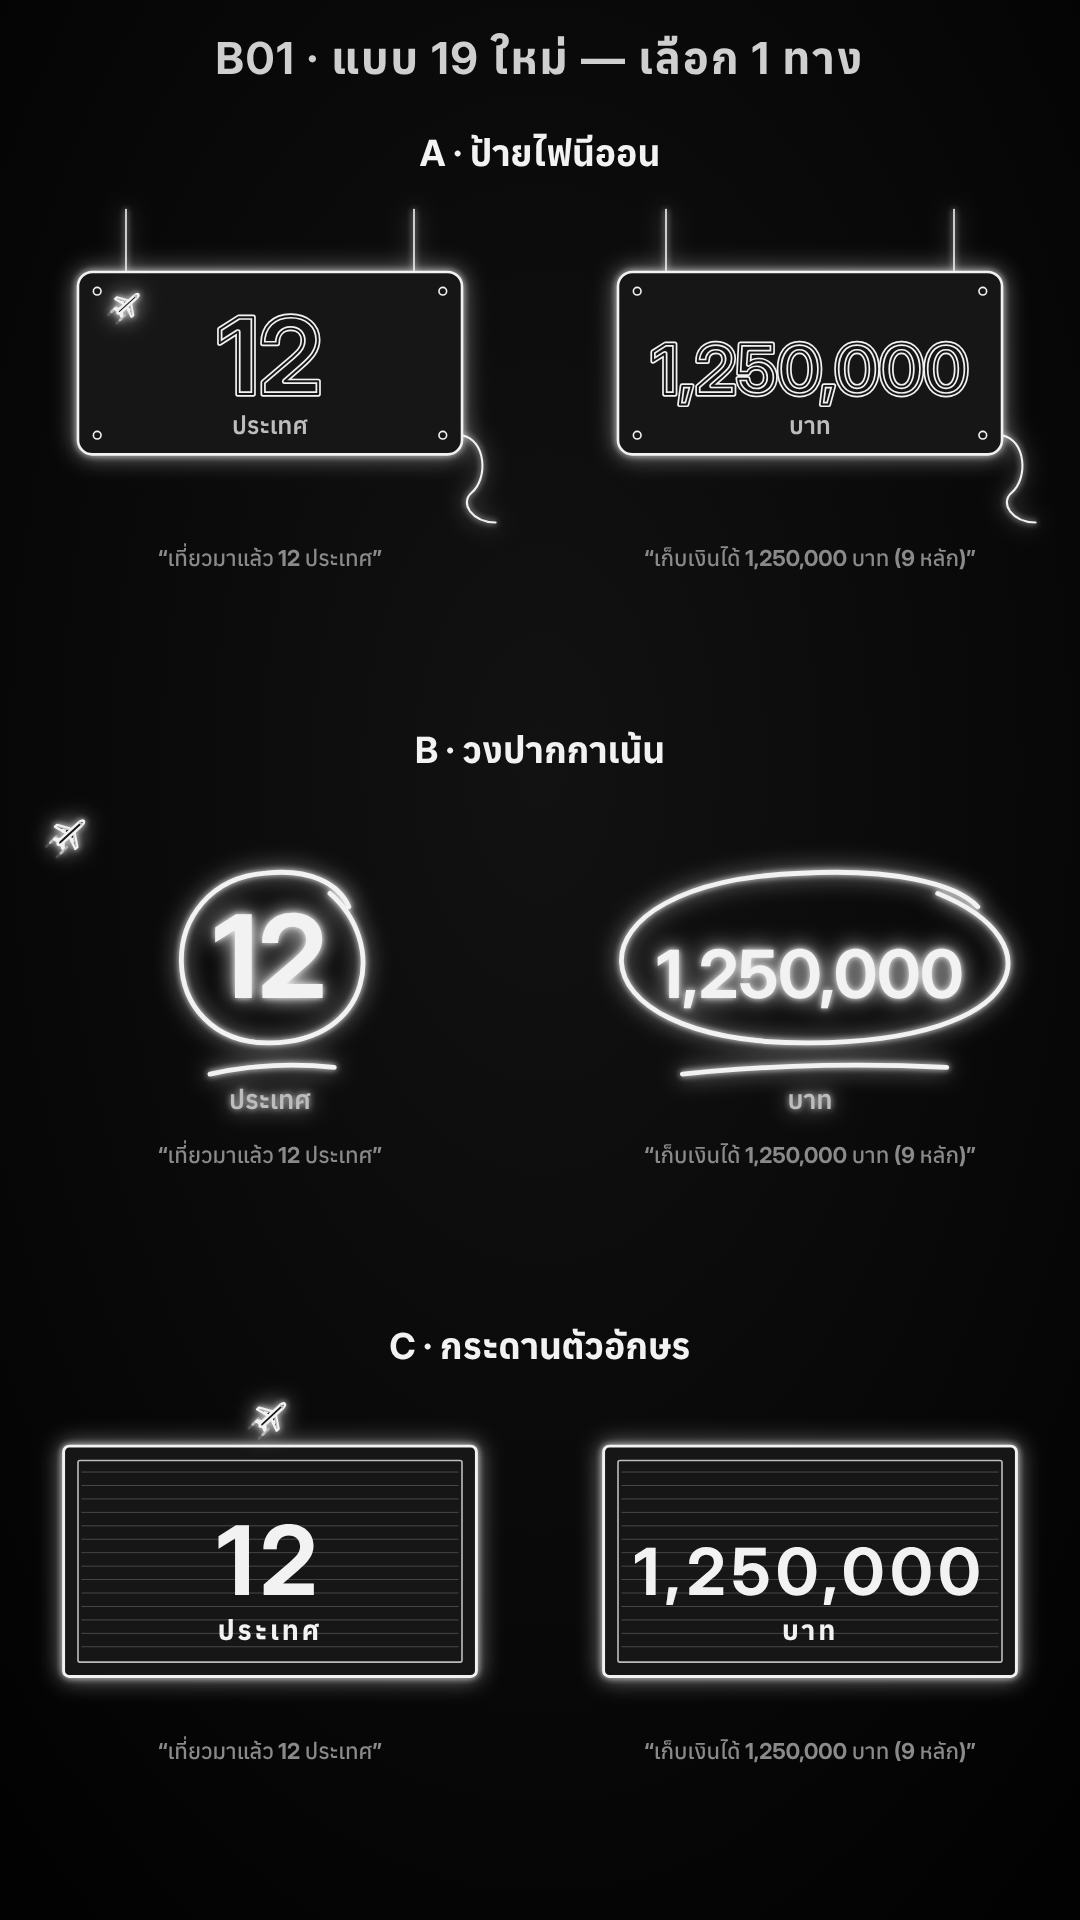
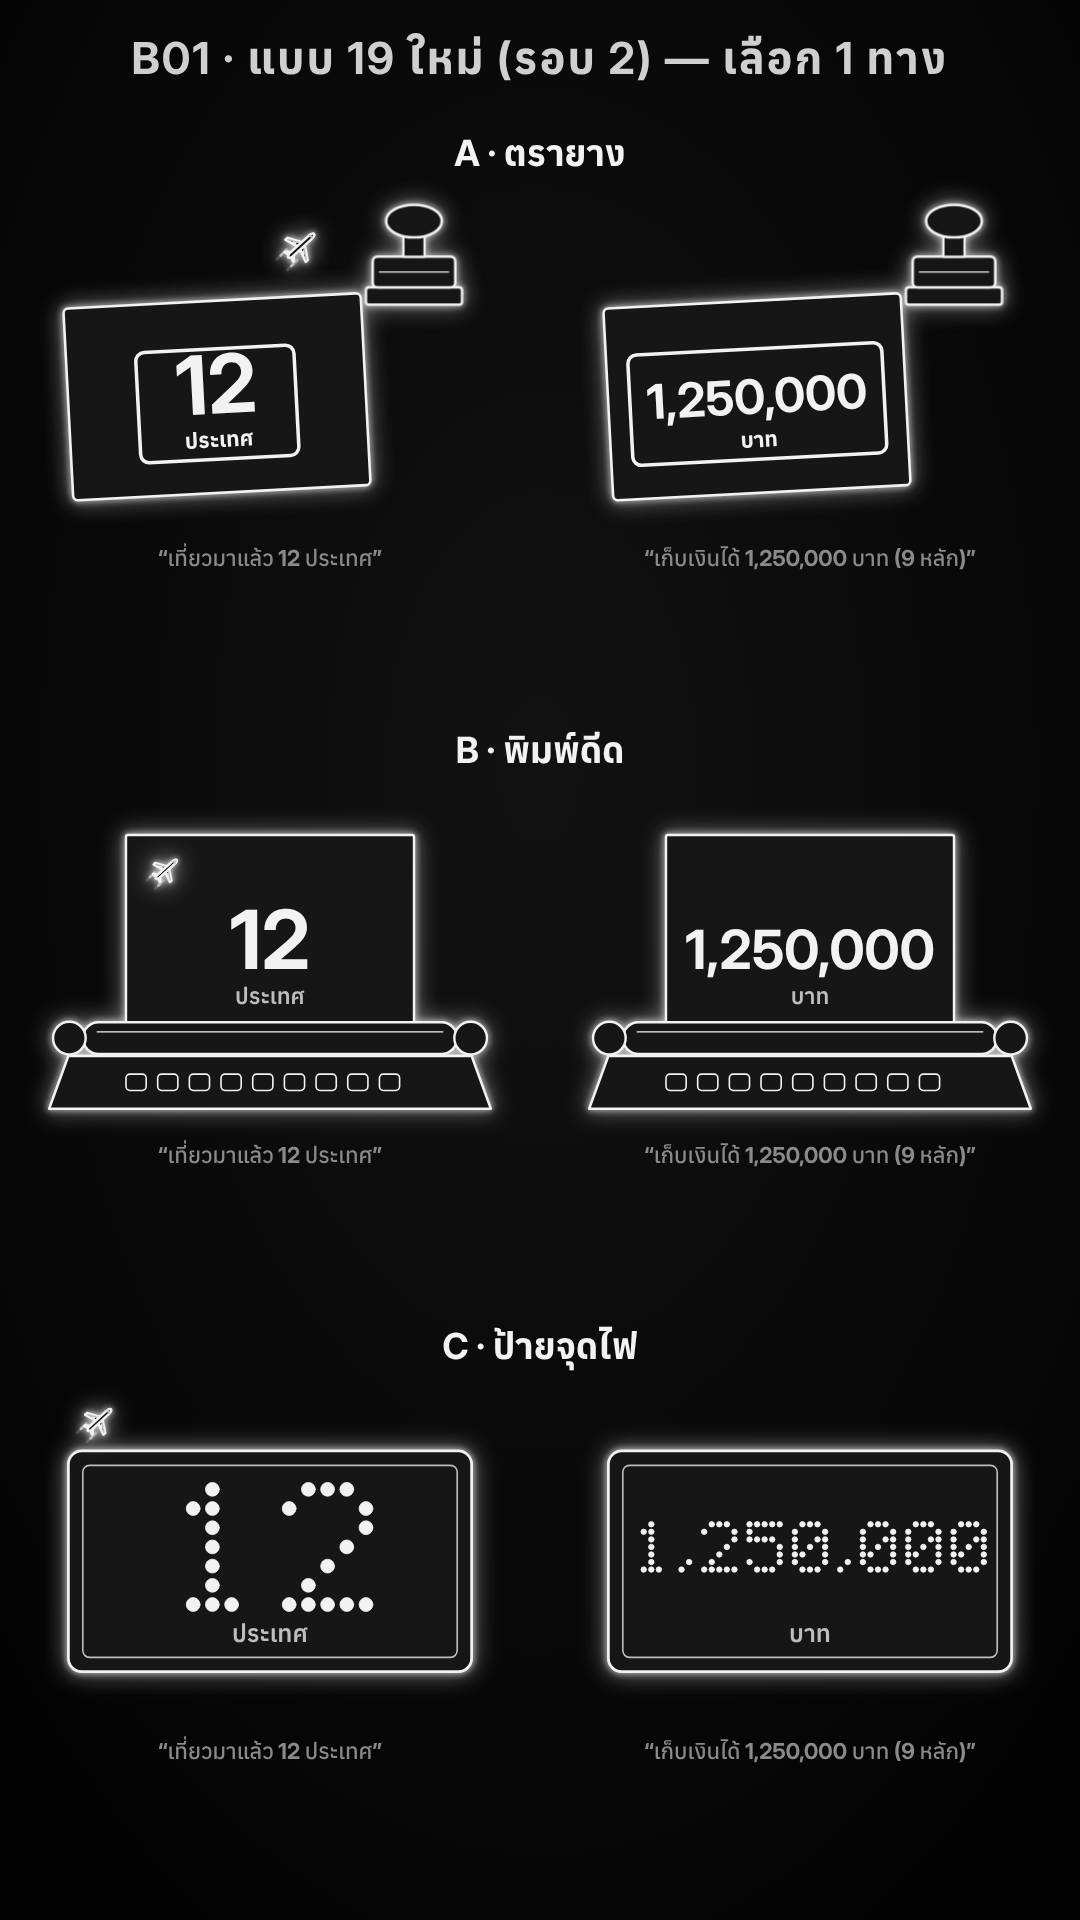
glow-line-motion: B01 — new options for 19 (stamp / typewriter / dot board) and 13 (label maker / sticker / tent sign)
Claude-Session: https://claude.ai/code/session_01S8EfU7fAEGeBWyNc1CqSTP

diff --git a/.claude/skills/glow-line-motion/examples/b01/b01.js b/.claude/skills/glow-line-motion/examples/b01/b01.js
@@ -343,51 +343,104 @@
     icon(d, -175, -150, 82, c);
   });
 
-  /* 19 alternatives (user asked to redesign ORBIT, 2026-11-12) — kept outside V until the user picks one */
-  const ALT19 = [];
-  const alt = (id, th, build) => ALT19.push({ id, th, build });
+  /* round-2 alternatives (2026-11-12): the user turned down neon / marker / letterboard for 19, and asked to redesign 13 too —
+     everyday objects with a mechanism (what the user picked so far: pinned note, roller shutter). Kept outside V until picked. */
+  const ALT19 = [], ALT13 = [];
+  const alt = (L, id, th, build) => L.push({ id, th, build });
 
-  /* 19a ── NEON: the number is a bent glass tube on a backboard that hangs on two wires, a cord runs off */
-  alt('neon', 'ป้ายไฟนีออน', (d, c) => {
+  /* 19a ── STAMP: a rubber stamp has just printed the number onto a sheet of paper */
+  alt(ALT19, 'stamp', 'ตรายาง', (d, c) => {
     art(c, p => {
-      p.line(-300, -330, -300, -200, W(2)); p.line(300, -330, 300, -200, W(2));
-      p.path('M 400 140 C 450 150, 455 230, 420 260 C 395 282, 420 320, 470 322', W(2.6));
-      p.rect(-400, -200, 800, 380, Object.assign({ rx: 30 }, F(3.2)));
-      [[-360, -160], [360, -160], [-360, 140], [360, 140]].forEach(([x, y]) => p.circle(x, y, 8, W(2)));
-      const t = txt(p, d.value, 0, d.unit ? 55 : 75, { size: 220, maxW: 660, color: 'none' });
-      t.e.setAttribute('stroke', C.ink); t.e.setAttribute('stroke-width', 11); t.e.setAttribute('stroke-linejoin', 'round');
-      const u = t.e.cloneNode(true); u.setAttribute('stroke', C.fill); u.setAttribute('stroke-width', 4); t.e.parentNode.appendChild(u);
-      if (d.unit) txt(p, d.unit, 0, 138, { size: 50, weight: 600, color: C.soft, maxW: 640 });
-      dirBadge(p, d.dir, 400, -200, 32);
+      const q = p.child({ transform: 'rotate(-3 -110 70)' });
+      q.rect(-420, -140, 620, 400, Object.assign({ rx: 10 }, F(3.2)));
+      const t = txt(q, d.value, -110, d.unit ? 95 : 115, { size: 170, maxW: 460 }), bb = t.bb;
+      const bw = Math.max(bb.width, d.unit ? 260 : 0) + 70;
+      q.rect(f1(-110 - bw / 2), -40, f1(bw), d.unit ? 230 : 210, { rx: 18, sw: 4.4 });
+      if (d.unit) txt(q, d.unit, -110, 165, { size: 44, weight: 700, maxW: bw - 50 });
+      p.rect(200, -168, 200, 36, Object.assign({ rx: 6 }, F(3))); p.rect(214, -232, 172, 64, Object.assign({ rx: 10 }, F(3.2)));
+      p.rect(278, -286, 44, 54, F(2.8)); p.ellipse(300, -306, 58, 34, F(3.2)); p.line(228, -200, 372, -200, W(1.6));
+      dirBadge(p, d.dir, -420, -140, 32);
     });
-    icon(d, -300, -130, 80, c);
+    icon(d, 60, -250, 100, c);
   });
 
-  /* 19b ── MARKER: a pen loop circles the number and a swoosh underlines it */
-  alt('marker', 'วงปากกาเน้น', (d, c) => {
+  /* 19b ── TYPEWRITER: the number has been typed on a sheet that sits in the platen roller */
+  alt(ALT19, 'typewriter', 'พิมพ์ดีด', (d, c) => {
     art(c, p => {
-      const t = txt(p, d.value, 0, 70, { size: 240, maxW: 640 }), bb = t.bb;
-      const rx = bb.width / 2 + 60, ry = 175, cx = bb.x + bb.width / 2, cy = -12;
-      p.path(`M ${f1(cx + rx * .7)} ${f1(cy - ry * .78)} C ${f1(cx + rx * 1.36)} ${f1(cy - ry * .2)}, ${f1(cx + rx * 1.2)} ${f1(cy + ry * .98)}, ${f1(cx)} ${f1(cy + ry)}` +
-        ` C ${f1(cx - rx * 1.36)} ${f1(cy + ry * 1.02)}, ${f1(cx - rx * 1.38)} ${f1(cy - ry * .92)}, ${f1(cx - rx * .05)} ${f1(cy - ry * 1.02)} C ${f1(cx + rx * .45)} ${f1(cy - ry * 1.08)}, ${f1(cx + rx * .8)} ${f1(cy - ry * .9)}, ${f1(cx + rx * .92)} ${f1(cy - ry * .62)}`, { sw: 6 });
-      p.path(`M ${f1(cx - rx * .7)} 228 Q ${f1(cx)} 200 ${f1(cx + rx * .75)} 214`, { sw: 6 });
-      if (d.unit) txt(p, d.unit, 0, 300, { size: 54, weight: 600, color: C.soft, maxW: 700 });
-      dirBadge(p, d.dir, Math.min(450, cx + rx + 30), cy - ry * .6, 32);
+      p.path('M -420 190 L 420 190 L 460 300 L -460 300 Z', F(3.2));
+      for (let i = 0; i < 9; i++) p.rect(-300 + i * 66, 228, 42, 34, Object.assign({ rx: 8 }, F(2)));
+      p.rect(-300, -270, 600, 420, Object.assign({ rx: 4 }, F(3)));
+      p.rect(-390, 120, 780, 66, Object.assign({ rx: 33 }, F(3.2))); [-1, 1].forEach(sd => p.circle(sd * 418, 153, 34, F(3)));
+      p.line(-360, 140, 360, 140, W(1.6));
+      txt(p, d.value, 0, d.unit ? 10 : 30, { size: 170, maxW: 520 });
+      if (d.unit) txt(p, d.unit, 0, 82, { size: 46, weight: 600, color: C.soft, maxW: 500 });
+      dirBadge(p, d.dir, 300, -270, 32);
     });
-    icon(d, -420, -270, 100, c);
+    icon(d, -220, -195, 80, c);
   });
 
-  /* 19c ── LETTERBOARD: a framed board with grooves, the number pressed in as letters, the unit on the row below */
-  alt('letterboard', 'กระดานตัวอักษร', (d, c) => {
+  /* 19c ── DOT BOARD: an LED dot board — the number is made of lit dots (unlit dots are not drawn) */
+  const DOTS = { 0: ['01110', '10001', '10011', '10101', '11001', '10001', '01110'], 1: ['00100', '01100', '00100', '00100', '00100', '00100', '01110'],
+    2: ['01110', '10001', '00001', '00010', '00100', '01000', '11111'], 3: ['11110', '00001', '00001', '01110', '00001', '00001', '11110'],
+    4: ['00010', '00110', '01010', '10010', '11111', '00010', '00010'], 5: ['11111', '10000', '11110', '00001', '00001', '10001', '01110'],
+    6: ['00110', '01000', '10000', '11110', '10001', '10001', '01110'], 7: ['11111', '00001', '00010', '00100', '01000', '01000', '01000'],
+    8: ['01110', '10001', '10001', '01110', '10001', '10001', '01110'], 9: ['01110', '10001', '10001', '01111', '00001', '00010', '01100'],
+    ',': ['00', '00', '00', '00', '00', '01', '10'], '.': ['0', '0', '0', '0', '0', '0', '1'], '%': ['11001', '11010', '00010', '00100', '01000', '01011', '10011'] };
+  alt(ALT19, 'dots', 'ป้ายจุดไฟ', (d, c) => {
+    const G2 = [...String(d.value)].map(ch => DOTS[ch]).filter(Boolean), cols = G2.reduce((n, g) => n + g[0].length + 1, -1);
+    const pitch = Math.min(40, 740 / cols, 300 / 7), r = pitch * .36, w = cols * pitch, cy = d.unit ? -30 : 0;
     art(c, p => {
-      p.rect(-430, -240, 860, 480, Object.assign({ rx: 12 }, F(3.6)));
-      p.rect(-400, -210, 800, 420, { rx: 4, fill: C.fill, sw: 2, stroke: C.soft });
-      for (let y = -186; y <= 190; y += 28) p.line(-392, y, 392, y, { sw: 1.2, stroke: C.rule });
-      txt(p, d.value, 0, d.unit ? 70 : 90, { size: 200, maxW: 700, ls: 12 });
-      if (d.unit) txt(p, d.unit, 0, 164, { size: 56, weight: 700, maxW: 680, ls: 6 });
-      dirBadge(p, d.dir, 430, -240, 32);
+      p.rect(-420, -230, 840, 460, Object.assign({ rx: 28 }, F(3.4)));
+      p.rect(-390, -200, 780, 400, { rx: 14, fill: C.fill, sw: 2, stroke: C.soft });
+      let x = -w / 2 + pitch / 2;
+      G2.forEach(g => { g.forEach((row, ry) => [...row].forEach((b, cx) => { if (b === '1') p.circle(f1(x + cx * pitch), f1(cy - 3 * pitch + ry * pitch), f1(r), { fill: C.ink, sw: 1 }); })); x += (g[0].length + 1) * pitch; });
+      if (d.unit) txt(p, d.unit, 0, 168, { size: 50, weight: 600, color: C.soft, maxW: 700 });
+      dirBadge(p, d.dir, 420, -230, 32);
     });
-    icon(d, 0, -300, 96, c);
+    icon(d, -360, -290, 90, c);
+  });
+
+  /* 13a ── LABEL MAKER: a hand label maker has printed the number on a strip of tape */
+  alt(ALT13, 'labelmaker', 'เครื่องพิมพ์ฉลาก', (d, c) => {
+    art(c, p => {
+      p.rect(-200, -78, 650, 156, Object.assign({ rx: 6 }, F(3)));
+      p.rect(-470, -190, 280, 390, Object.assign({ rx: 44 }, F(3.4)));
+      p.rect(-436, -150, 212, 80, Object.assign({ rx: 12 }, { fill: C.fill, sw: 2, stroke: C.soft }));
+      for (let r = 0; r < 3; r++) for (let k = 0; k < 5 - (r === 2 ? 1 : 0); k++) p.rect(-434 + k * 42 + (r === 2 ? 21 : 0), -36 + r * 44, 32, 30, Object.assign({ rx: 7 }, F(1.8)));
+      p.rect(-404, 100, 152, 30, Object.assign({ rx: 9 }, F(1.8)));
+      p.rect(-196, -26, 12, 52, Object.assign({ rx: 4 }, F(2)));
+      txt(p, d.value, 125, 46, { size: 130, maxW: 560 });
+      if (d.unit) txt(p, d.unit, 125, 160, { size: 52, weight: 600, color: C.soft, maxW: 600 });
+      dirBadge(p, d.dir, 450, -78, 30);
+    });
+    icon(d, 125, -190, 110, c);
+  });
+
+  /* 13b ── STICKER: a round sticker, its edge curling up where it is being pressed on */
+  alt(ALT13, 'sticker', 'สติกเกอร์', (d, c) => {
+    const P = a => [f1(250 * Math.cos(rad(a))), f1(-10 + 250 * Math.sin(rad(a)))], A = P(18), B = P(72);
+    art(c, p => {
+      p.path(`M ${A[0]} ${A[1]} A 250 250 0 1 0 ${B[0]} ${B[1]} Z`, F(3.4));
+      p.path(`M ${A[0]} ${A[1]} Q 110 90 ${B[0]} ${B[1]} Q 150 140 ${A[0]} ${A[1]} Z`, { fill: C.fill, sw: 2.6, stroke: C.soft });
+      txt(p, d.value, -20, d.unit ? 40 : 60, { size: 180, maxW: 380 });
+      if (d.unit) txt(p, d.unit, -20, 112, { size: 46, weight: 600, color: C.soft, maxW: 300 });
+      dirBadge(p, d.dir, -200, -170, 32);
+    });
+    icon(d, -20, -160, 90, c);
+  });
+
+  /* 13c ── TENT SIGN: a folded card stands on a table, the number on its front face */
+  alt(ALT13, 'tent', 'ป้ายตั้งโต๊ะ', (d, c) => {
+    art(c, p => {
+      p.line(-470, 206, 470, 206, { sw: 2.2, stroke: C.soft });
+      p.path('M -350 -168 L 350 -168 L 330 -196 L -330 -196 Z', F(2.6));
+      p.path('M -350 -168 L 350 -168 L 392 204 L -392 204 Z', F(3.4));
+      p.line(-350, -168, 350, -168, W(3));
+      txt(p, d.value, 0, d.unit ? 72 : 95, { size: 210, maxW: 640 });
+      if (d.unit) txt(p, d.unit, 0, 152, { size: 50, weight: 600, color: C.soft, maxW: 620 });
+      dirBadge(p, d.dir, 350, -168, 32);
+    });
+    icon(d, 0, -268, 110, c);
   });
 
   /* 19 ── ORBIT: two orbits circle the number; the icon rides one of them */
@@ -467,5 +520,5 @@
   ];
 
   G.cats = G.cats || {};          // GL.B01 is taken by the older beats.js template
-  G.cats.B01 = { variants: V, ALT19, SAMPLES, STRESS, draw: (i, d, c) => V[i].build(d, c) };
+  G.cats.B01 = { variants: V, ALT19, ALT13, SAMPLES, STRESS, draw: (i, d, c) => V[i].build(d, c) };
 })();

diff --git a/.claude/skills/glow-line-motion/examples/b01/alt13.html b/.claude/skills/glow-line-motion/examples/b01/alt13.html
@@ -1,0 +1,20 @@
+<!doctype html>
+<html><head><meta charset="utf-8"><title>B01 design 13 options</title>
+<script src="../../assets/glowline.js"></script><script src="b01.js"></script></head>
+<body><script>
+/* B01 design 19 — 3 replacement options (the user asked to redesign RIBBON); each with an everyday sentence and a stress one */
+GL.run(() => {
+  GL.stage();
+  const B = GL.cats.B01, D = [B.SAMPLES[12], B.STRESS[0]];
+  GL.text('B01 · แบบ 13 ใหม่ — เลือก 1 ทาง', { y: 74, size: 44, ls: 2, color: GL.C.kicker, glow: false });
+  const top = 120, rh = (GL.H - top - 10) / 3, s = .48;
+  B.ALT13.forEach((v, r) => {
+    const y0 = top + r * rh;
+    GL.text(String.fromCharCode(65 + r) + ' · ' + v.th, { y: y0 + 46, size: 36, color: GL.C.ink, glow: false });
+    D.forEach((d, k) => { const x = (k + .5) * GL.W / 2;
+      v.build(d, { x, y: y0 + 80 + 700 * s / 2, s, at: 0 });
+      GL.text('“' + d.say + '”', { x, y: y0 + 80 + 700 * s + 30, size: 22, weight: 500, color: GL.C.mute, glow: false, maxW: GL.W / 2 - 30 }); });
+  });
+  GL.finish({ hold: 2 });
+});
+</script></body></html>

diff --git a/.claude/skills/glow-line-motion/examples/b01/alt19.html b/.claude/skills/glow-line-motion/examples/b01/alt19.html
@@ -6,7 +6,7 @@
 GL.run(() => {
   GL.stage();
   const B = GL.cats.B01, D = [B.SAMPLES[18], B.STRESS[0]];
-  GL.text('B01 · แบบ 19 ใหม่ — เลือก 1 ทาง', { y: 74, size: 44, ls: 2, color: GL.C.kicker, glow: false });
+  GL.text('B01 · แบบ 19 ใหม่ (รอบ 2) — เลือก 1 ทาง', { y: 74, size: 44, ls: 2, color: GL.C.kicker, glow: false });
   const top = 120, rh = (GL.H - top - 10) / 3, s = .48;
   B.ALT19.forEach((v, r) => {
     const y0 = top + r * rh;

diff --git a/.claude/skills/glow-line-motion/HANDOFF.md b/.claude/skills/glow-line-motion/HANDOFF.md
@@ -36,9 +36,12 @@
 - ผู้ใช้: **"Redesign 14 ด้วย"** (cube) → เสนอ 3 ทาง (plinth / shutter / flip) → ผู้ใช้ **"B"** → แบบ 14 = `shutter` บานม้วน (cube ลบแล้ว).
 - ตอนนี้ 20 แบบ: hero drum lcd gauge ring bar ruler column frame spotlight hex sign ribbon **shutter** block lens card **note** orbit stack.
   **รอผู้ใช้ตอบว่าภาพนิ่งทั้ง 20 ผ่านหรือยัง** → ผ่านแล้วค่อยใส่ท่าขยับ.
-- ผู้ใช้: **"Redesign 19"** (orbit) → เสนอ 3 ทาง `GL.cats.B01.ALT19`: A neon ป้ายไฟนีออน · B marker วงปากกาเน้น · C letterboard กระดานตัวอักษร
-  (แผ่น `examples/b01/alt19.html`, ภาพ `motion/glow-line-cats/b01/b01-19-options.png`). **รอผู้ใช้เลือก** → ใส่แทน orbit ใน `V` แล้วลบ orbit + ALT19 ที่เหลือ
-  (ทำแบบเดียวกับรอบ 14/18: python ตัดบล็อก, เปลี่ยน alt( → variant(, เอา ALT ออกจาก export, ลบแผ่น altNN.html + ภาพ options).
+- ผู้ใช้: **"Redesign 19"** (orbit) → รอบ 1 เสนอ neon / marker / letterboard → ผู้ใช้ **"ไม่ชอบเลยเอาใหม่" + "Redesign 13 ด้วย"** (ribbon).
+  รสนิยมที่เห็น: เลือก **ของในชีวิตประจำวันที่มีกลไก** (กระดาษโน้ตปักหมุด, บานม้วน); ไม่เลือก: burst cube orbit ribbon neon marker letterboard iris scroll plinth flip.
+  → รอบ 2 เสนอ `ALT19`: A stamp ตรายาง · B typewriter พิมพ์ดีด · C dots ป้ายจุดไฟ (`alt19.html`, `b01-19-options.png`)
+  และ `ALT13`: A labelmaker เครื่องพิมพ์ฉลาก (แป้นแบบคีย์บอร์ด — แบบ 3×3 ดูเป็นเครื่องคิดเลข ไม่กลาง) · B sticker สติกเกอร์ · C tent ป้ายตั้งโต๊ะ
+  (`alt13.html`, `b01-13-options.png`). **รอผู้ใช้เลือก** → ใส่แทนใน `V` (orbit / ribbon) แล้วลบ ALT + แผ่น alt + ภาพ options
+  (python ตัดบล็อก, เปลี่ยน `alt(ALT19, ` → `variant(`, เอา ALT ออกจาก export).
 
 ## ✅ ตัวปรับท่าขยับกลาง — ทำเสร็จแล้ว (2026-11-12) · ผู้ใช้ตอบ **"ผ่าน"**
 
